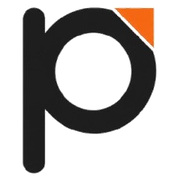
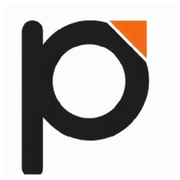
.

Changed region(s): [[0.1111, 0.0278, 0.8889, 0.9722]]

diff --git a/client/src/components/Logo.jsx b/client/src/components/Logo.jsx
@@ -1,35 +1,33 @@
 import React from 'react'
+import logoImg from '../assets/logo.png'
+import logoLightImg from '../assets/logo_light.png'
 
 export default function Logo({
   className = '',
-  variant = 'default', // 'default' (dark text), 'light' (white text), 'accent'
+  variant = 'default', // 'default' (black/orange) | 'light' (white/orange for dark backgrounds)
   size = 'md', // 'sm' | 'md' | 'lg' | 'xl' | 'splash'
 }) {
-  const textSizes = {
-    sm: 'text-lg sm:text-xl tracking-[0.14em]',
-    md: 'text-2xl sm:text-3xl tracking-[0.16em]',
-    lg: 'text-3xl sm:text-4xl tracking-[0.18em]',
-    xl: 'text-4xl sm:text-5xl tracking-[0.2em]',
-    splash: 'text-5xl sm:text-7xl tracking-[0.22em]',
+  const heightMap = {
+    sm: 'h-7 sm:h-8',
+    md: 'h-9 sm:h-11',
+    lg: 'h-12 sm:h-14',
+    xl: 'h-16 sm:h-20',
+    splash: 'h-24 sm:h-32',
   }
 
   const isLight = variant === 'light'
-  const isAccent = variant === 'accent'
-  const textColor = isAccent ? '#A82F19' : isLight ? '#FFFFFF' : '#000000'
-  const accentColor = '#A82F19'
+  const logoSource = isLight ? logoLightImg : logoImg
 
   return (
-    <div className={`inline-flex items-center select-none whitespace-nowrap overflow-visible ${className}`}>
-      {/* Text-based Logo ONPRINT */}
-      <span
-        className={`font-display font-black uppercase leading-none select-none ${
-          textSizes[size] || textSizes.md
+    <div className={`inline-flex items-center shrink-0 select-none ${className}`}>
+      <img
+        src={logoSource}
+        alt="ONPRINT — Professional Printing & Branding Solutions"
+        loading="eager"
+        className={`w-auto object-contain ${
+          heightMap[size] || heightMap.md
         }`}
-        style={{ color: textColor }}
-      >
-        ON<span style={{ color: accentColor }}>PRINT</span>
-      </span>
+      />
     </div>
   )
 }
-

diff --git a/client/index.html b/client/index.html
@@ -3,9 +3,21 @@
   <head>
     <meta charset="UTF-8" />
     <link rel="icon" type="image/svg+xml" href="/favicon.svg" />
+    <link rel="icon" type="image/png" sizes="32x32" href="/favicon-32x32.png" />
+    <link rel="icon" type="image/png" sizes="16x16" href="/favicon-16x16.png" />
+    <link rel="apple-touch-icon" sizes="180x180" href="/apple-touch-icon.png" />
     <meta name="viewport" content="width=device-width, initial-scale=1.0" />
-    <title>ONPRINT | Professional Printing Solutions</title>
-    <meta name="description" content="ONPRINT delivers professional digital and offset printing, packaging, signage and promotional products for businesses and brands." />
+    
+    <title>ONPRINT | Professional Printing &amp; Branding Solutions</title>
+    <meta name="description" content="Professional printing, branding and custom print solutions for businesses and brands." />
+    
+    <!-- Open Graph / Social Media Branding -->
+    <meta property="og:type" content="website" />
+    <meta property="og:site_name" content="ONPRINT" />
+    <meta property="og:title" content="ONPRINT | Professional Printing &amp; Branding Solutions" />
+    <meta property="og:description" content="Professional printing, branding and custom print solutions for businesses and brands." />
+    <meta property="og:image" content="/logo_icon.png" />
+    
     <link rel="preconnect" href="https://fonts.googleapis.com" />
     <link rel="preconnect" href="https://fonts.gstatic.com" crossorigin />
     <link
